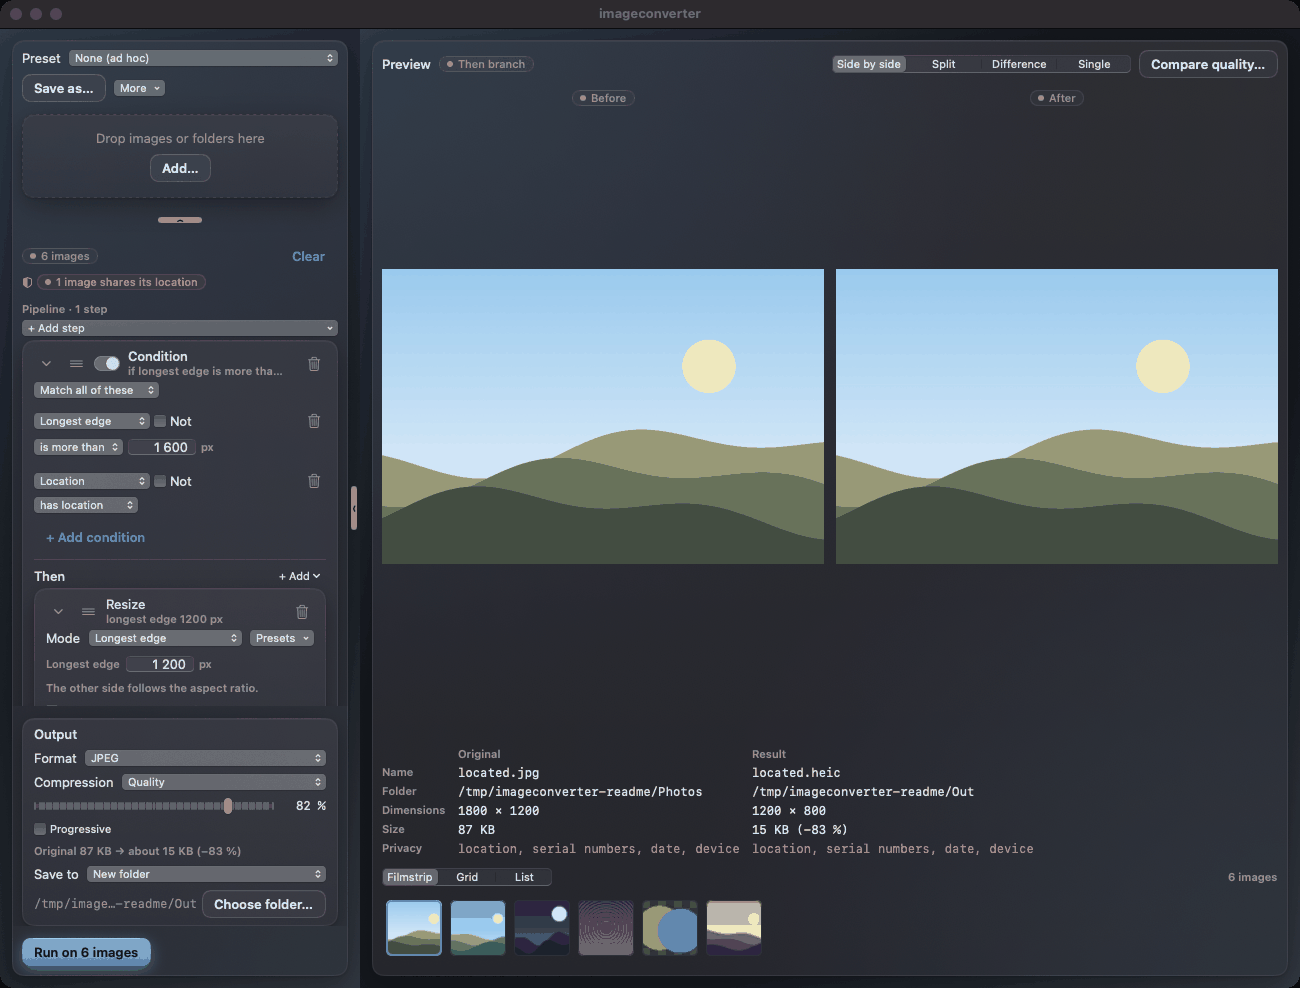
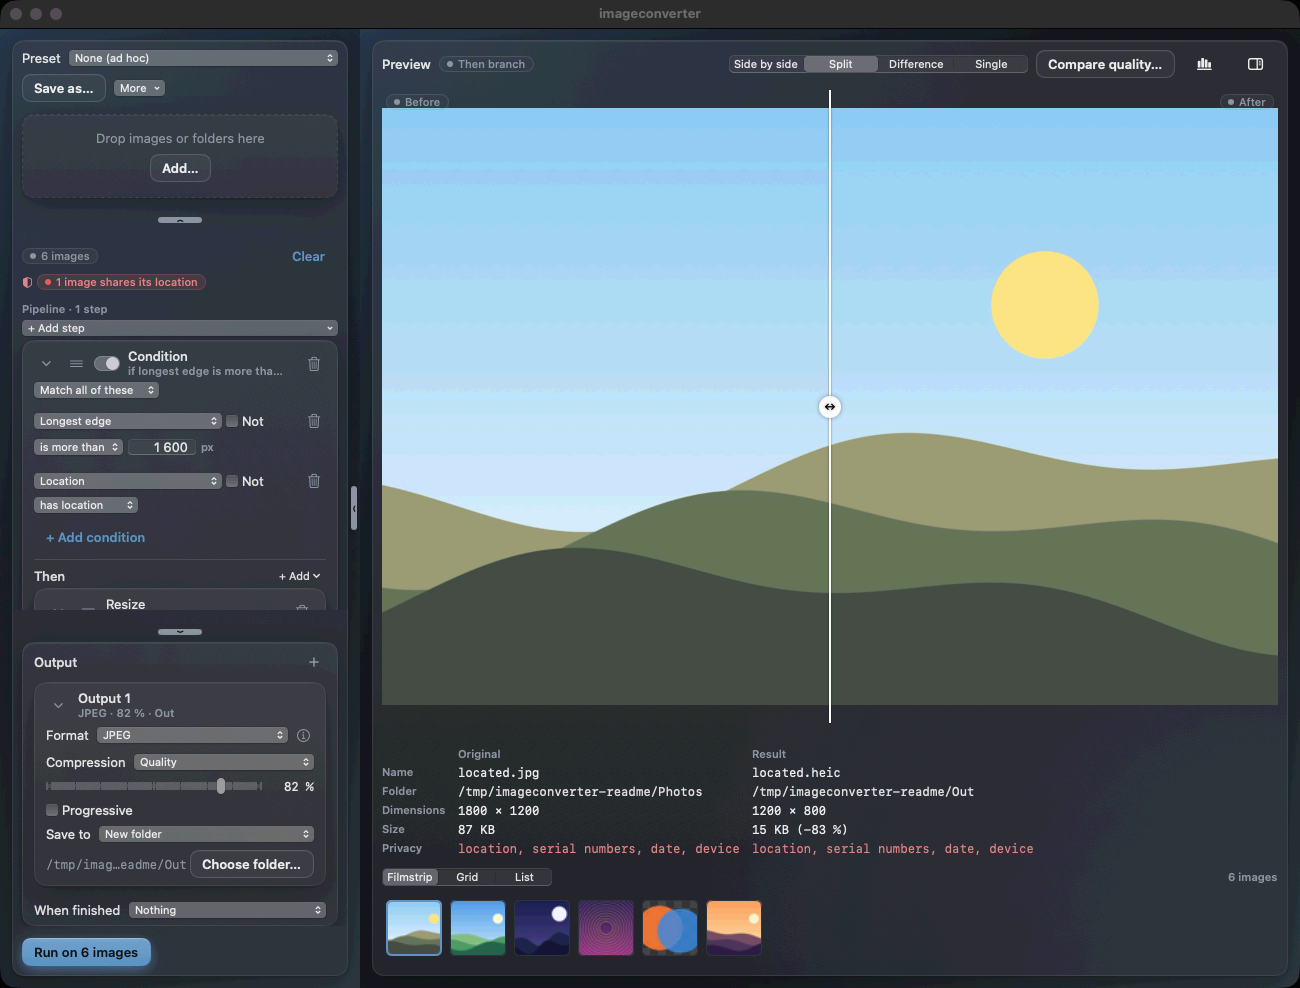
release: 1.5.0
Minor bump: new histogram and clipping feature plus the Output cards; the rest are fixes from the bug check.

diff --git a/Sources/ImageconverterCore/AppInfo.swift b/Sources/ImageconverterCore/AppInfo.swift
@@ -3,7 +3,7 @@ import Foundation
 /// Facts about the app shared by the app and the command-line tool.
 public enum AppInfo {
     /// Keep equal to the `VERSION` file; `AppInfoTests` fails when they differ.
-    public static let compiledVersion = "1.4.0"
+    public static let compiledVersion = "1.5.0"
 
     /// The version shown to the user: the bundle's `CFBundleShortVersionString` when the app is
     /// packaged, else `compiledVersion` (a `swift run` build or the command-line tool).

diff --git a/CHANGELOG.md b/CHANGELOG.md
@@ -4,6 +4,8 @@ All notable changes to imageconverter are listed here, newest first.
 
 ## Unreleased
 
+## 1.5.0 (2026-11-18)
+
 - **Filmstrip thumbnails are fresh after an Overwrite originals run** (bug fix): a file rewritten in place (crop, rotate) kept its old picture in the filmstrip; its thumbnail is now loaded again. The histogram's help and the README say clipping is measured in sRGB, so Display P3 colours beyond sRGB show as clipped.
 - **Every output is a card under the Output heading** (Johan): the main output's format, compression, ⓘ size estimate and Save to now sit in an **Output 1** card, the same collapsible card as the extra outputs, which follow as *Output 2*, *Output 3*, … (names you gave them before are kept). Closed, the card shows one line (format · quality · Save to); it starts open and remembers its state (key `mainOutputExpanded`). The "+" stays at the top right of the heading, **When finished** stays under the cards (it is for the whole run), and the collapsed Output panel's one line is unchanged. Texts that said "main output" now say Output 1: *Same as Output 1* (size), *Beside Output 1* (Save to), "Output 1 JPEG" in the ⓘ size box, "only Output 1 is written" (Skip extra outputs).
 - **Command line and installer fixes** (bug check D): `SIGTERM` (`kill`, `timeout`) and `SIGHUP` (a closed terminal) now stop a `convert` or `jobs run` like Ctrl-C (clean stop, partial report, exit 130) instead of killing it with temp files left beside the outputs; a second signal of any of them removes the temp files this process is writing (never another process's) and exits at once with 130. `jobs run -- -nightly` runs a job whose name starts with `-`. `--variant` values may contain commas: `folder="/Photos/a, b"` (double quotes) or `folder=/Photos/a\, b` (`\,`); inside a variant value `\\` is a backslash and `\"` a quote (any other backslash stays), documented in `--help` and the README. When the update installed but the old version could not be moved to the Trash or removed (for example root-owned in /Applications), the installer service's reply now carries a note: the update sheet says "The update is installed. The previous version could not be moved to the Trash; it is still at …" and waits for **Relaunch** (also in About, in place of Check Now, until the app is relaunched) instead of relaunching at once (it was thrown away before). Core `UpdateInstallerProtocol.install` replies `(error, note)`, `FileCommitter.removeOwnTemps()`; CLI `InterruptPolicy`.

diff --git a/README.md b/README.md
@@ -8,7 +8,7 @@ on your Mac: no uploads, and no network access except the optional update check 
 For anyone who regularly prepares photos for the web, for sharing or for archiving, and is tired
 of doing it one image or one operation at a time.
 
-**Version:** 1.4.0 · **Status:** released — signed and notarized, sandboxed, works offline (only the optional update check and download, and Apple's enlargement model if you choose to download it, go online).
+**Version:** 1.5.0 · **Status:** released — signed and notarized, sandboxed, works offline (only the optional update check and download, and Apple's enlargement model if you choose to download it, go online).
 Started 2026-11-13. The full design is in
 [docs/superpowers/specs/2026-11-13-imageconverter-design.md](docs/superpowers/specs/2026-11-13-imageconverter-design.md).
 
@@ -30,6 +30,15 @@ Started 2026-11-13. The full design is in
 </table>
 
 ## What's new
+
+### 1.5.0 (2026-11-18)
+
+- **Histogram and clipping**: a chart button in the preview header (View ▸ Show Histogram, ⌥⌘G) shows the RGB and luminance histogram of the Original or the Result; View ▸ Show Clipping (⌥⌘J) marks clipped highlights red and crushed shadows blue.
+- **Output cards**: every output is now a card under the Output heading: **Output 1**, then **Output 2**, **Output 3**, … all with the same look.
+- **Redact**: the size sliders now work on every photo (**Blocks across**, Coarse to Fine, and Blur **Strength**, relative to each area), text on transparent images is found, and previews with Redact load much faster.
+- **Faster**: clicking another image shows a quick preview at once ("Refining…") and then the exact one; faster downsampled JPEG decodes, HEIC thumbnails and adding large folders.
+- **Never lose files**: runs at the same time into one folder can no longer replace each other's files (also on exFAT cards), and very long names are shortened instead of failing.
+- **Fixes** from a full bug check: fresh privacy, estimate, metadata and thumbnails after an Overwrite originals run; GPS inside XMP location structures is found and removed; Shortcuts actions run one at a time; clean quits; nested conditions in a file can no longer crash the app; command-line `SIGTERM`/`SIGHUP`, `--` and quoted `--variant` values. See [CHANGELOG.md](CHANGELOG.md) for the full list.
 
 ### 1.4.0 (2026-11-16)
 

diff --git a/CLAUDE.md b/CLAUDE.md
@@ -271,7 +271,7 @@ old). UI must stay responsive (no sideways scrolling at 375 px) and keyboard acc
   sanitizer, never `innerHTML`; no `eval`; no third-party requests (self-host libraries in `vendor/`).
 - Keep CI (`.github/workflows/ci.yml`) green; record user-visible changes under "Unreleased" in
   `CHANGELOG.md`.
-- Version 1.4.0 (in `VERSION`). Show it in the app (an About page, `--version` or a footer, read
+- Version 1.5.0 (in `VERSION`). Show it in the app (an About page, `--version` or a footer, read
   from that file). Bump it on every push that changes the app (patch: fixes, minor: features, major:
   breaking changes), and in the same commit move "Unreleased" under the new version and update the
   README's version and "What's new".
